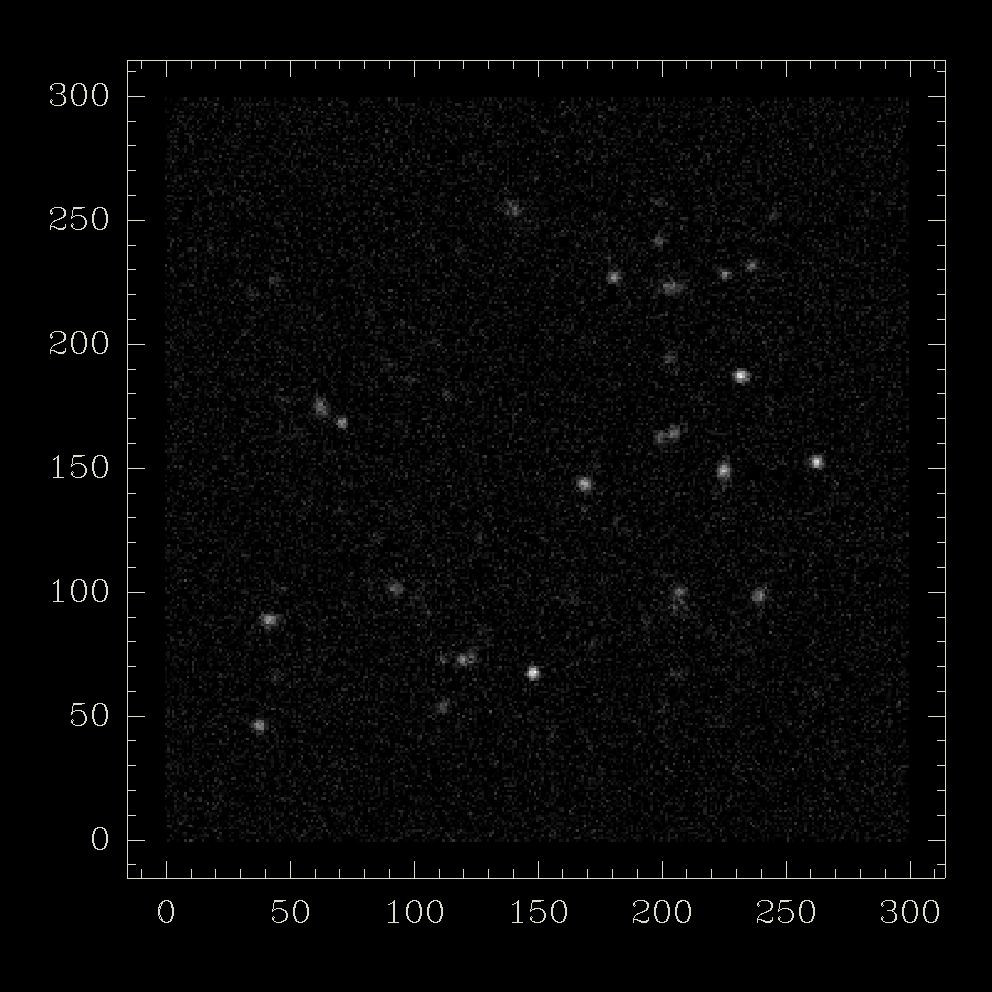
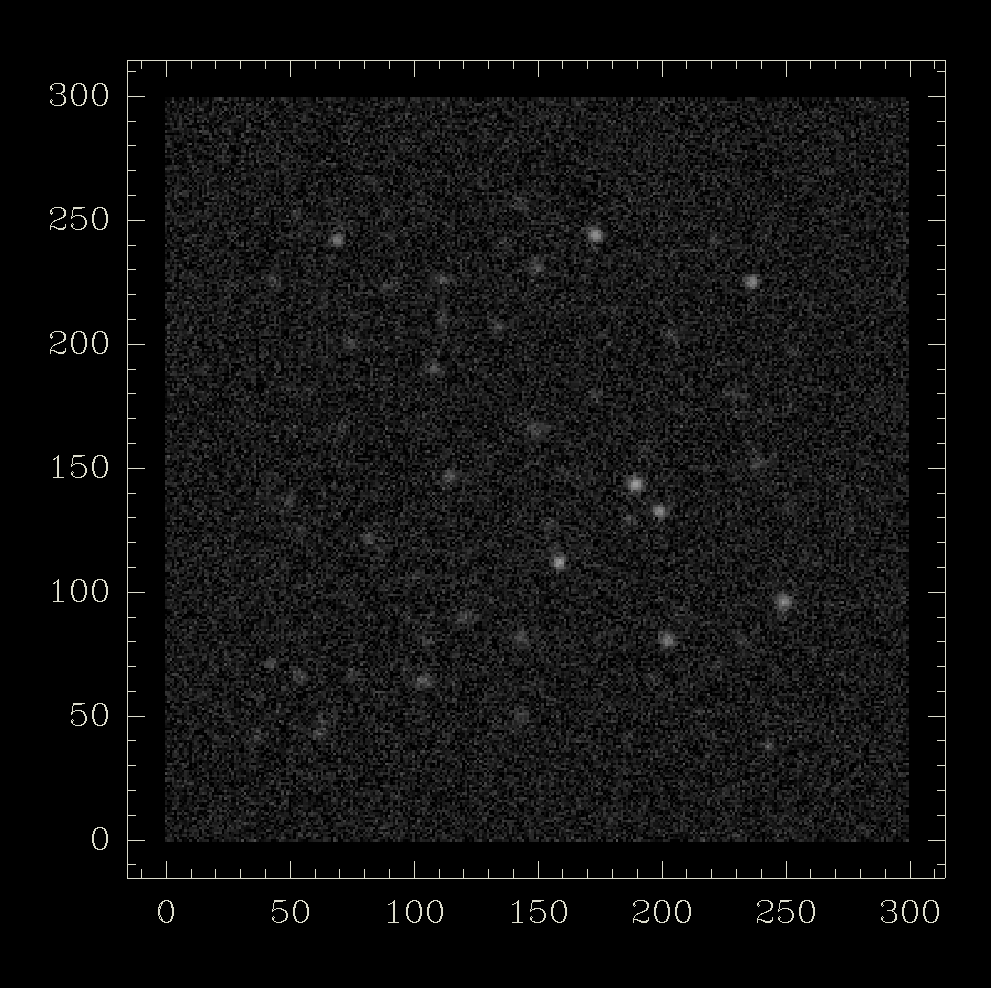
more text

diff --git a/2018-10-29-metadetect-blending-tf/2018-10-29-metadetect-blending-tf.tex b/2018-10-29-metadetect-blending-tf/2018-10-29-metadetect-blending-tf.tex
@@ -188,10 +188,101 @@
             calibration from the data itself using sheared versions of the images.
             \url{https://github.com/esheldon/ngmix}
 
+
     \end{itemize}
 
 }
 
+
+\frame
+{
+    \frametitle{\Mcal\ Refresher}
+
+    \setbeamerfont*{itemize/enumerate body}{size=\large}
+    \setbeamerfont*{itemize/enumerate subbody}{parent=itemize/enumerate body}
+    \setbeamerfont*{itemize/enumerate subsubbody}{parent=itemize/enumerate body}
+ 
+    \begin{itemize}
+
+        \item Suppose we have a biased shear estimator {\color{gold} \vest}.  Then we can write
+            {\color{gold}
+\begin{align} \label{eq:Eexpand}
+    \vest &= \vest|_{\gamma=0} + \frac{ \partial \vest }{ \partial \vecg}\bigg|_{\gamma=0} \vecg  + ... \nonumber \\
+          &\equiv \vest|_{\gamma=0} + \mbox{\mcalR}\vecg  + ...
+\end{align}
+            } 
+
+        \item For an ensemble mean
+            {\color{gold}
+                \begin{align}
+                    \langle \vest \rangle &= \langle \vest \rangle |_{\gamma=0} + \langle \mbox{\mcalR} \vecg \rangle + ... \nonumber \\
+                                          &\approx \langle \mbox{\mcalR} \vecg \rangle,
+                \end{align}
+                }
+
+            \item The shear is weighted by responses {\color{cadetblue} \mcalR}.  If we know the
+                responses, we can form a weighted average:
+            {\color{gold}
+\begin{align} \label{eq:rcorr}
+    \langle \vecg_m \rangle &\approx \langle \mbox{\mcalR} \rangle^{-1}  \langle \vest \rangle \approx \langle \mbox{\mcalR} \rangle^{-1} \langle \mcalR \vecg \rangle.
+\end{align}
+            }
+    \end{itemize}
+}
+
+\frame
+{
+    \frametitle{Numerical Derivative}
+
+    \setbeamerfont*{itemize/enumerate body}{size=\large}
+    \setbeamerfont*{itemize/enumerate subbody}{parent=itemize/enumerate body}
+    \setbeamerfont*{itemize/enumerate subsubbody}{parent=itemize/enumerate body}
+ 
+
+       \begin{itemize}
+
+        \item Use image manipulation to estimate the derivative of the
+            estimator with respect to shear
+            {\color{gold}
+                \begin{equation}
+                    \mcalR = \frac{\vest^+ - \vest^-}{\Delta \vecg} \nonumber 
+                \end{equation}
+            }
+            \begin{itemize}
+                \item Deconvolve the PSF
+                \item Shear the image by a small amount
+                \item Reconvolve by a new function.  Should be larger than PSF to suppress
+                    noise amplification.  We use a circular one to avoid
+                    additive biases.
+
+                \item {\color{lightsteelblue} Add noise field to cancel correlated noise}
+            \end{itemize}
+
+
+    \end{itemize}
+
+}
+
+\frame
+{
+    \frametitle{\Mcal\ images}
+
+    \setbeamerfont*{itemize/enumerate body}{size=\Large}
+    \setbeamerfont*{itemize/enumerate subbody}{parent=itemize/enumerate body}
+    \setbeamerfont*{itemize/enumerate subsubbody}{parent=itemize/enumerate body}
+ 
+
+    \begin{itemize}
+        \item \Mcal\ involves making 5 images.
+        \item 4 that are sheared 
+            ($\gamma_1^+$, $\gamma_1^-$, $\gamma_2^+$,$\gamma_2^-$)
+        \item 1 that is not sheared but uses the same circularized
+            PSF as the sheared images.
+
+
+    \end{itemize}
+
+}
 
 \frame
 {
@@ -218,6 +309,9 @@
             \end{itemize}
         \item \snr\ for each object ranged between 20 and 40, so the objects
             are well above detection threshold
+
+        \item \Mcal\ is unbiased for these models when they appear
+            individually.
 
     \end{itemize}
 
@@ -323,7 +417,15 @@
 
         \item Same object types and survey parameters as the pair tests.
 
-        \item Distribution of flux and size taken from the COSMOS catalogs.
+        \item Distribution of flux and size taken from the COSMOS catalogs
+            that comes with Galsim.
+            \begin{itemize}
+                \item Note this catalog lacks large bright galaxies. See images
+                    on the next page.
+            \end{itemize}
+
+        \item \Mcal\ is unbiased for models with these properties when they
+            appear individually.
 
         \item Noise appropriate for DES Y5
 
@@ -332,6 +434,7 @@
         \item sim2: \neff=20/sq arcmin
             %acheived by just doubling the number of galaxies.
             %i.e. not by lowering the noise appropriately.
+
 
     \end{itemize}
 
@@ -350,9 +453,9 @@
         \end{column}
         \begin{column}{0.5\textwidth}
             \begin{center}
-                \includegraphics[width=\columnwidth]{20persqarcmin.png}
+                \includegraphics[width=\columnwidth]{35persqarcmin.png}
                 \newline
-                \neff=20/sq. arcmin
+                \neff=35/sq. arcmin
             \end{center}
         \end{column}
     \end{columns}
@@ -391,6 +494,43 @@
 
 
 \end{frame}
+
+
+\frame
+{
+    \frametitle{Including Detection in the \mcal\ process}
+
+    \setbeamerfont*{itemize/enumerate body}{size=\normalsize}
+    \setbeamerfont*{itemize/enumerate subbody}{parent=itemize/enumerate body}
+    \setbeamerfont*{itemize/enumerate subsubbody}{parent=itemize/enumerate body}
+ 
+    \begin{itemize}
+
+        \item There is a shear-dependent detection bias.
+
+        \item By bias, I mean everything that is done to find detections,
+            not just determining what is above threshold.
+
+        \item We can use \mcal\ to mitigate these, but it requires
+            inserting the creation of sheared images {\em before}
+            detection.
+
+        \item The program:
+            \begin{enumerate}
+
+                \item Make 5 sheared images of a region of sky (not just for one object).
+
+                \item Run detection on those to get 5 catalogs.
+                \item Perform a measurement on those.  This could include
+                    deblending.
+                \item Calculate the shear (or whatever statistic)
+                    and the shear response using
+                    for all the catalogs.
+            \end{enumerate}
+
+    \end{itemize}
+
+}
 
 
 
@@ -466,6 +606,41 @@
 
 
 \end{frame}
+
+\frame
+{
+    \frametitle{Challenges for Real Data}
+
+    \setbeamerfont*{itemize/enumerate body}{size=\small}
+    \setbeamerfont*{itemize/enumerate subbody}{parent=itemize/enumerate body}
+    \setbeamerfont*{itemize/enumerate subsubbody}{parent=itemize/enumerate body}
+ 
+    \begin{itemize}
+
+        \item Requires calculating the statistic of interest 5 times, once for
+            each catalog. Should not be a problem.
+
+        \item We need to identify regions of sky usefully large for
+            detection and for which the PSF is approximately constant.
+            e.g. 1x1 arcminute patches.
+
+        \item We need to deal with parts of the image that cannot be
+            deconvolved; stuff that happens on the detector such as bad pixels,
+            bleed trails from bright stars, cosmic rays.
+
+        \item We need to merge catalogs from between the different patches, so
+            the patches should include some padding.  We need to test if this
+            merging causes shear dependent selection effects.
+
+        \item We need a continuous PSF, so we need these coadds to be made
+            excluding images that have a boundary in the region of interest.
+            We generally call these ``coadds in cells''.
+            See my talk on coadds and Jim  Bosche's talk on coadds.
+
+    \end{itemize}
+
+}
+
 
 
 %\frame
